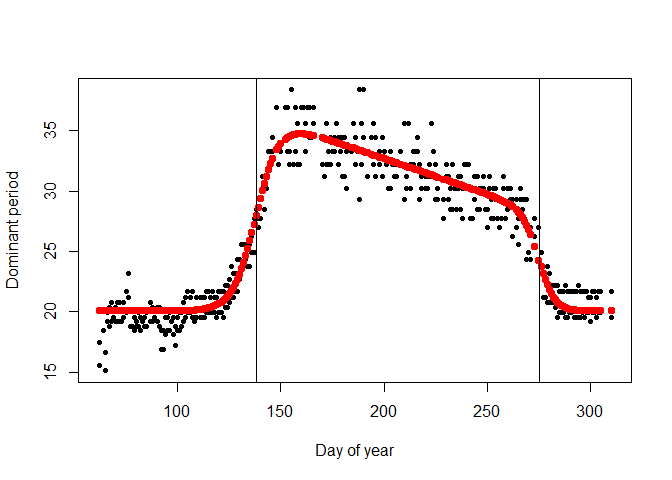
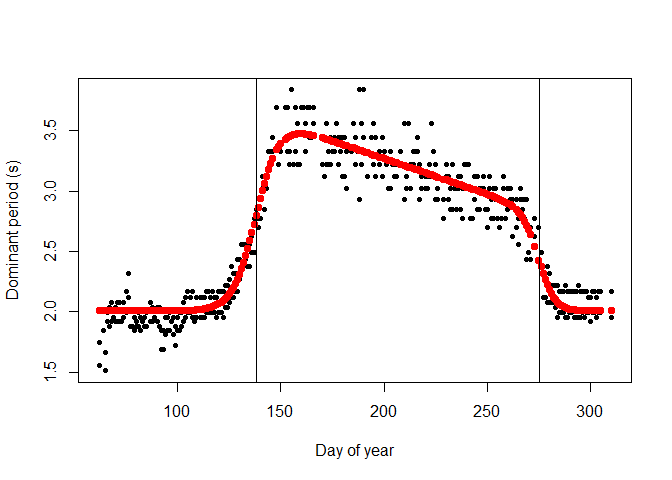
Fixing plots

diff --git a/README.md b/README.md
@@ -64,8 +64,8 @@ This function, `rmOut`, identifies and removes points that have residuals beyond
 ``` r
 #The 'rmOut' function requires a dataframe with three columns named "day","value", and "weights"
 dat2 <- rmOut(dat)
-plot(dat$day, dat$value)
-points(dat2$day, dat2$value, pch=20, col="purple", xlab="Day of year",ylab="Dominant period")
+plot(dat$day, dat$value, xlab="Day of year",ylab="Dominant period")
+points(dat2$day, dat2$value, pch=20, col="purple")
 ```
 
 ![](README_files/figure-markdown_github/unnamed-chunk-4-1.png)
@@ -88,8 +88,9 @@ mod = nls(value ~ a + (b- g*day)*((1/(1+exp((c-day)/d))) - (1/(1+exp((e-day)/f))
              algorithm="port",control = list(maxiter = 500), data=dat2, weights=dat2$weights^2)
 
 #Plot data, and fitted values
-plot(dat2$day, dat2$value, pch=20, xlab="Day of year",ylab="Dominant period")
-points(dat2$day, fitted(mod), pch=20, col="red", lwd=4)
+#Units are in tenths of seconds, so divide by 10 to convert to seconds
+plot(dat2$day, dat2$value/10, pch=20, xlab="Day of year",ylab="Dominant period (s)")
+points(dat2$day, fitted(mod)/10, pch=20, col="red", lwd=4)
 abline(v=c(coef(mod)[3],coef(mod)[5]))
 ```
 
